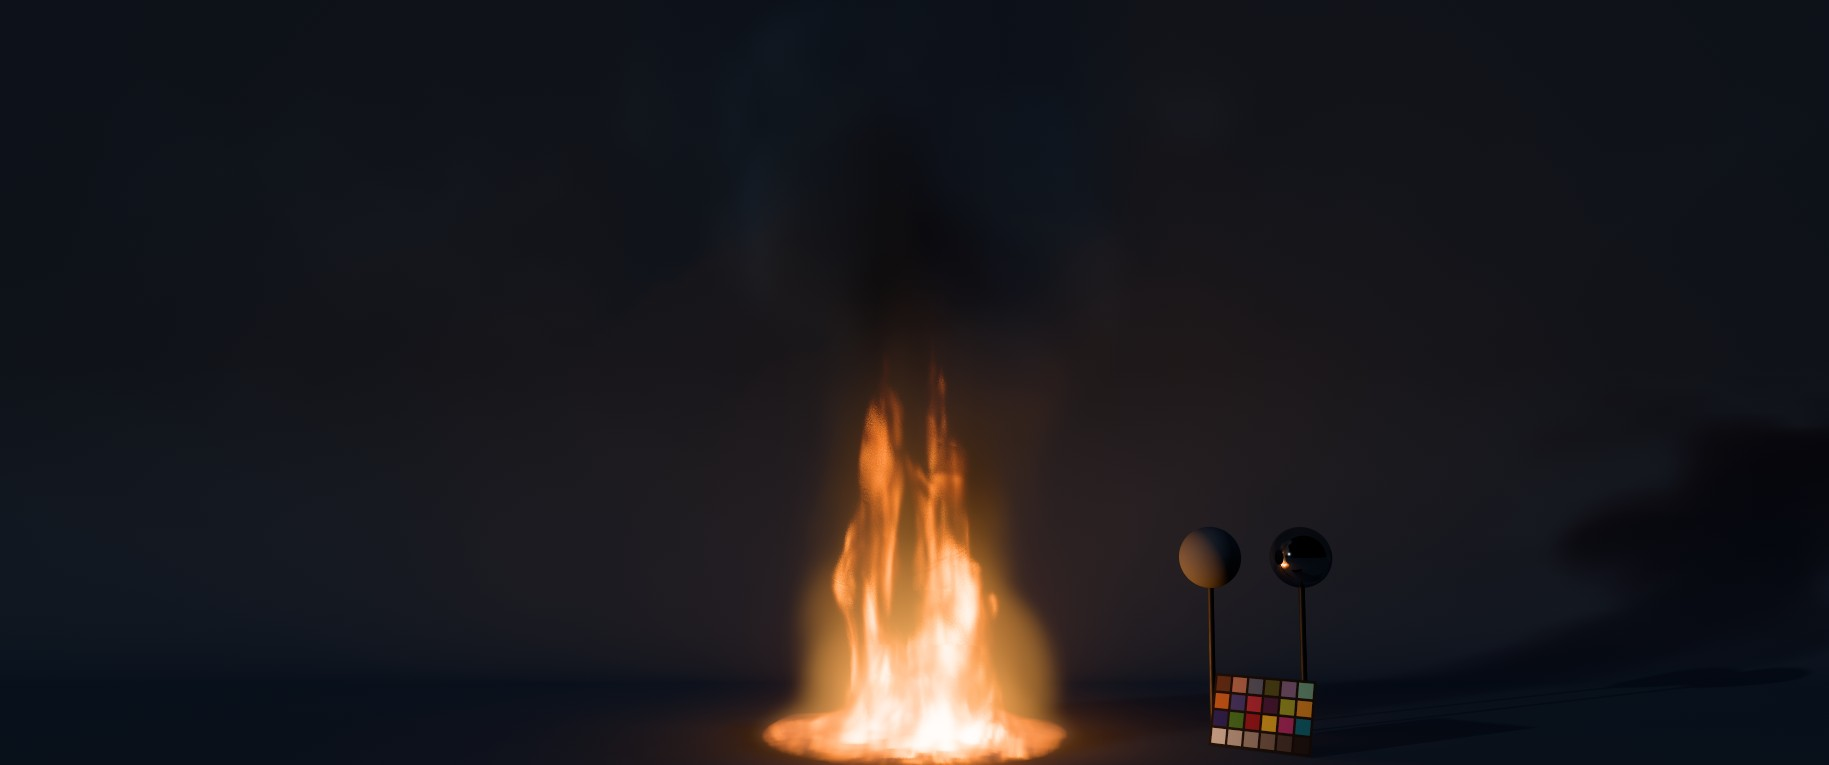
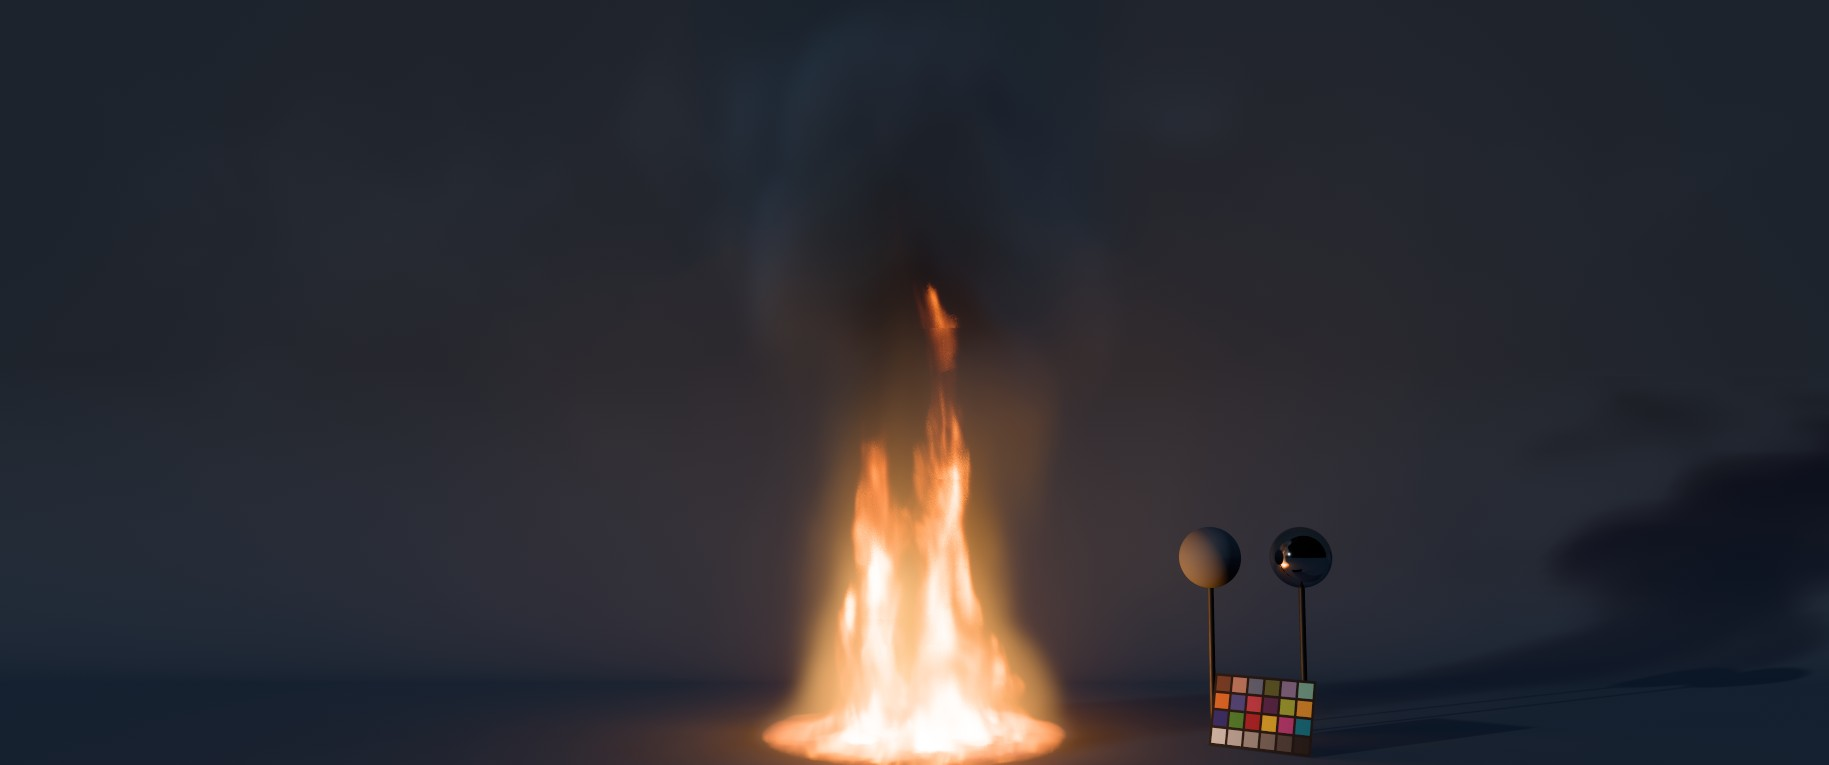
Pyro: the fire meter reads the flames as drawn (B), the A/B removed
Matthew chose B. The auto exposure's fire meter now reads the same sums
the fire's light does (the flames' glow as drawn), not the cells' own
glow, which overstated the fire about fivefold: the bonfire and campfire
expose about 0.85 EV brighter, daylight scenes do not change.

Checked before locking in: the metered target moves about half as much
again as before (bonfire 0.17 EV standard deviation against 0.11), which
the meter's one-second easing turns into 0.12 EV of slow drift and under
0.01 EV a frame; the flame area with a channel at full rises from 18% to
24% (bonfire) and 27% to 32% (campfire), none of it white (ACES 2.0 rolls
the cores off), so no offset.

FIRE_SUM no longer sums the cells' own glow. The notes' meter numbers
corrected: a third of a stop per doubling (0.35 EV, not half), and the
campfire EV 7.5 to 8.5 as it puffs. Posters re-rendered.

diff --git a/components/PyroLab.tsx b/components/PyroLab.tsx
@@ -91,7 +91,7 @@ const TECH_NOTES: [string, string][] = [
   ],
   [
     'Camera',
-    'Exposed like a real camera. Light is set as a light meter reads it, the sun and sky as incident readings (2.5 × 2^EV lux), and the exposure is the camera’s EV at ISO 100, saturating at 1.2 × 2^EV cd/m² (Frostbite’s physically based camera). The white balance is a Bradford chromatic adaptation from a blackbody of the chosen temperature to the display’s white, the step Nguyen and colleagues took for fire; then the Lookdev lab’s own view transforms: ACES 2.0 (baked from OpenColorIO 2.5) by default, or AgX, Khronos PBR Neutral or a plain sRGB curve. The shutter is a film camera’s at 24 frames a second, 180 degrees by default (open 1/48 s): each sample along a ray takes its own moment within it and reads the gas where the flow had it then, so fast flames streak as they do on film. The lens scatters a few percent of the light it passes (4% by default) into a wide, soft glare, by a chain of blurs that keeps the light’s energy (Jimenez’s, from Call of Duty), which shows only around what is far brighter than its surroundings, as the flames’ cores are. Auto exposure meters the scene as a camera in program mode would: the sun and sky as an incident meter reads them, but never brighter than the fire allows (EV 7 for an 80 kW campfire, half a stop more for each doubling of its light), eased over a second so the flames’ puffing does not pump it; its brightest flames saturate to yellow-white, as they do in photographs. The background is a studio’s black, or the sky (its radiance the sky’s illuminance over π, a little brighter toward the horizon) over a floor that runs into the horizon’s haze, or the Lookdev lab’s cyc in its charcoal or gray, the floor sweeping up into a wall behind the fire, lit by the fire too.',
+    'Exposed like a real camera. Light is set as a light meter reads it, the sun and sky as incident readings (2.5 × 2^EV lux), and the exposure is the camera’s EV at ISO 100, saturating at 1.2 × 2^EV cd/m² (Frostbite’s physically based camera). The white balance is a Bradford chromatic adaptation from a blackbody of the chosen temperature to the display’s white, the step Nguyen and colleagues took for fire; then the Lookdev lab’s own view transforms: ACES 2.0 (baked from OpenColorIO 2.5) by default, or AgX, Khronos PBR Neutral or a plain sRGB curve. The shutter is a film camera’s at 24 frames a second, 180 degrees by default (open 1/48 s): each sample along a ray takes its own moment within it and reads the gas where the flow had it then, so fast flames streak as they do on film. The lens scatters a few percent of the light it passes (4% by default) into a wide, soft glare, by a chain of blurs that keeps the light’s energy (Jimenez’s, from Call of Duty), which shows only around what is far brighter than its surroundings, as the flames’ cores are. Auto exposure meters the scene as a camera in program mode would: the sun and sky as an incident meter reads them, but never brighter than the fire allows (read from its flames as they are drawn: EV 7.5 to 8.5 for an 80 kW campfire as it puffs, a third of a stop more for each doubling of its light), eased over a second so the flames’ puffing does not pump it; its brightest flames saturate to yellow-white, as they do in photographs. The background is a studio’s black, or the sky (its radiance the sky’s illuminance over π, a little brighter toward the horizon) over a floor that runs into the horizon’s haze, or the Lookdev lab’s cyc in its charcoal or gray, the floor sweeping up into a wall behind the fire, lit by the fire too.',
   ],
   [
     'Environments',
@@ -818,17 +818,6 @@ export default function PyroLab() {
                       Manual
                     </Pill>
                   </Group>
-                  {/* TEMPORARY A/B of the fire meter (params.ts meterAB): remove once decided. */}
-                  {pyro.exposureMode === 'auto' && pyro.sourceType === 'fire' && (
-                    <Group label="Meter A/B">
-                      <Pill on={pyro.meterAB === 'a'} onClick={() => update({ meterAB: 'a' })}>
-                        A: as now
-                      </Pill>
-                      <Pill on={pyro.meterAB === 'b'} onClick={() => update({ meterAB: 'b' })}>
-                        B: follows the fire
-                      </Pill>
-                    </Group>
-                  )}
                   {pyro.exposureMode === 'auto' ? (
                     <Slider label="Compensation" min={-3} max={3} step={0.25} value={pyro.exposureComp} digits={2} unit=" EV" onChange={v => update({ exposureComp: v })} />
                   ) : (

diff --git a/components/pyro/wgsl.ts b/components/pyro/wgsl.ts
@@ -2244,8 +2244,8 @@ export const FIRE_SUM_TOTAL = /* wgsl */ `
 @group(0) @binding(0) var<uniform> C: vec4<u32>;
 @group(0) @binding(1) var<storage, read> partial: array<vec4<f32>>;
 // 0: the emitted intensity summed over cells, per unit of cell volume (rgb, and its luminance); 1: its centre; 2: the
-// bed's area (m2), the heat release rate (W) and the cells' own glow (as 0's luminance, for the meter); then for each
-// of FIRE_BANDS slices of the grid's height, its emitted intensity (as 0) and its centre.
+// bed's area (m2) and the heat release rate (W); then for each of FIRE_BANDS slices of the grid's height, its emitted
+// intensity (as 0) and its centre.
 @group(0) @binding(2) var<storage, read_write> result: array<vec4<f32>>;
 const FIRE_BANDS = ${FIRE_BANDS}u;
 var<workgroup> sE: array<vec4<f32>, 256>;
@@ -3381,8 +3381,7 @@ var<workgroup> sumB: array<vec4<f32>, 64>;
 // blackbody's glow climbs so steeply with temperature that the cells' own values give several times more: the hottest
 // cells, at the bed, are only a sliver of the interpolated field (for the campfire about four times more light than the
 // flames show; the path-traced reference found it). Cells with no soot, or too cool to glow and not burning (under
-// 600 K, below 0.05 MW/m3), are skipped: most of the smoke.
-// The cells' own glow is summed too, for the camera's meter, which was set by it.
+// 600 K, below 0.05 MW/m3), are skipped: most of the smoke. The camera's meter reads the same sums.
 const OCTANTS = array<vec3<f32>, 8>(
   vec3<f32>(-0.25, -0.25, -0.25), vec3<f32>(0.25, -0.25, -0.25), vec3<f32>(-0.25, 0.25, -0.25), vec3<f32>(0.25, 0.25, -0.25),
   vec3<f32>(-0.25, -0.25, 0.25), vec3<f32>(0.25, -0.25, 0.25), vec3<f32>(-0.25, 0.25, 0.25), vec3<f32>(0.25, 0.25, 0.25));
@@ -3400,10 +3399,6 @@ fn main(@builtin(global_invocation_id) id: vec3<u32>, @builtin(local_invocation_
     let s = textureLoad(scal, c, 0);
     let g = gasOf(s);
     let heatMW = hrr[cellIndex(c)] * 1e-6;
-    // The cell's own glow, for the meter.
-    var formed = 1.0;
-    if (heatMW > 0.0) { formed = sootFormed(g, heatMW); }
-    let own = (1.0 - R.skyCol.w) * sigmaOf(s) * formed * chroma() * planck(radiatingKelvin(T_AMB + g.rise, heatMW)) + CHEMI_COLOUR * (CHEMI_CD * heatMW);
     if ((s.x > 0.0 || heatMW > 0.0) && (g.rise > 300.0 || heatMW > 0.05)) {
       let w = worldOf(vec3<f32>(id) + 0.5);
       let ch = chroma();
@@ -3414,7 +3409,7 @@ fn main(@builtin(global_invocation_id) id: vec3<u32>, @builtin(local_invocation_
       e *= 0.125;
     }
     let bed = bedMask(worldOf(vec3<f32>(id) + 0.5)) * P.grid.x * P.grid.x;
-    b = vec4<f32>(bed, hrr[cellIndex(c)] * vol, ap1Lum(own), 0.0);
+    b = vec4<f32>(bed, hrr[cellIndex(c)] * vol, 0.0, 0.0);
   }
   let lum = ap1Lum(e);
   sumE[li] = vec4<f32>(e, lum);

diff --git a/components/pyro/engine.ts b/components/pyro/engine.ts
@@ -578,7 +578,6 @@ export class PyroEngine {
   private readingBall = false
   // Auto exposure: the fire's luminous intensity (cd, read back a few times a second) and the metered EV, eased.
   private fireCd = 0
-  private fireCdDrawn = 0 // (the fire's glow as drawn, for the meter's A/B)
   private metering = false
   private meterEV: number | null = null
   private meterAt = 0
@@ -2340,9 +2339,8 @@ export class PyroEngine {
     const rig = s.env === 'rig' ? luxOfEV(s.sunEV) * Math.max((s.rigKey ? 1 : 0) + (s.rigFill ? RIG.fill.ratio : 0), 0.05) : 0
     const lux = s.env === 'rig' ? rig : this.envLight ? luxOfEV(s.skyEV) : luxOfEV(s.sunEV) + luxOfEV(s.skyEV)
     const ambient = Math.log2((METER_AMBIENT * lux) / 2.5)
-    const cd = s.meterAB === 'b' ? this.fireCdDrawn : this.fireCd
-    if (s.sourceType !== 'fire' || cd <= 0) return ambient
-    return Math.max(ambient, METER_FIRE_EV + METER_FIRE_SLOPE * Math.log2(cd / METER_FIRE_CD))
+    if (s.sourceType !== 'fire' || this.fireCd <= 0) return ambient
+    return Math.max(ambient, METER_FIRE_EV + METER_FIRE_SLOPE * Math.log2(this.fireCd / METER_FIRE_CD))
   }
   private exposureEV() {
     const s = this.state
@@ -2361,17 +2359,14 @@ export class PyroEngine {
     if (this.metering || !this.grids || this.state.sourceType !== 'fire') return
     this.metering = true
     const d = this.device
-    const read = d.createBuffer({ size: 48, usage: GPUBufferUsage.MAP_READ | GPUBufferUsage.COPY_DST })
+    const read = d.createBuffer({ size: 16, usage: GPUBufferUsage.MAP_READ | GPUBufferUsage.COPY_DST })
     const enc = d.createCommandEncoder()
-    enc.copyBufferToBuffer(this.grids.fireLight, 0, read, 0, 48)
+    enc.copyBufferToBuffer(this.grids.fireLight, 0, read, 0, 16)
     d.queue.submit([enc.finish()])
     try {
       await read.mapAsync(GPUMapMode.READ)
       const dx = DOMAIN_WIDTH / this.grids.n[0]
-      // (The cells' own glow, which the meter was set by; FIRE_SUM.)
-      const sums = new Float32Array(read.getMappedRange())
-      this.fireCd = sums[10] * dx * dx * dx
-      this.fireCdDrawn = sums[3] * dx * dx * dx
+      this.fireCd = new Float32Array(read.getMappedRange())[3] * dx * dx * dx
       read.unmap()
     } catch {}
     read.destroy()

diff --git a/components/pyro/params.ts b/components/pyro/params.ts
@@ -67,9 +67,6 @@ export interface PyroState {
   shutter: number // degrees: a film camera's shutter angle at 24 frames a second (180 is open 1/48 s; 0, no motion blur)
   glare: number // the share of the light the lens scatters into its glare (0 to 0.1)
   reference: boolean // the on-set reference beside the fire: a colour chart, a grey ball and a chrome ball
-  // TEMPORARY A/B for Matthew's call (remove once decided): the auto exposure's fire meter on the cells' own glow, as
-  // it was set ('a'), or on the fire's glow as the flames are drawn, which the fire's light now follows ('b').
-  meterAB: 'a' | 'b'
   // One of the Lookdev lab's HDR environments lighting the scene (environment.ts), its softbox rig ('rig': key, fill
   // and rim, engine.ts RIG), or none (the sun and a flat sky). With a map, the light azimuth turns it, the Sky EV sets
   // its illuminance on open ground, and the floor runs to the horizon under it. With the rig, the light azimuth and
@@ -135,7 +132,6 @@ export const PYRO_DEFAULTS: PyroState = {
   shutter: 180,
   glare: 0.04,
   reference: true,
-  meterAB: 'a',
   env: 'none',
   rigKey: true,
   rigFill: true,

diff --git a/components/pyro/physics.ts b/components/pyro/physics.ts
@@ -55,8 +55,10 @@ export const luxOfEV = (ev: number) => 2.5 * 2 ** ev
 export const exposureOfEV = (ev: number) => 1 / (1.2 * 2 ** ev)
 // Auto exposure. The ambient light is metered as an incident meter reads it, less 2.3 EV (smoke is pale and sits in
 // the open, and the camera's saturation-based exposure runs darker than a meter's grey); a fire sets the least
-// exposure (the highest EV) the frame may take: EV 7 for an 80 kW campfire (about 130 cd), and half a stop more for
-// each doubling of the fire's intensity (less than in proportion: photographers let flames burn out a little).
+// exposure (the highest EV) the frame may take: EV 7 for 130 cd of flame, and a third of a stop more (0.35 EV) for each
+// doubling of the fire's intensity (less than in proportion: photographers let flames burn out a little). The fire's
+// intensity is its flames' as they are drawn (FIRE_SUM): an 80 kW campfire's some 400 to 2,000 cd as it puffs, so
+// EV 7.5 to 8.5.
 export const METER_AMBIENT = 0.2
 export const METER_FIRE_EV = 7
 export const METER_FIRE_CD = 130
